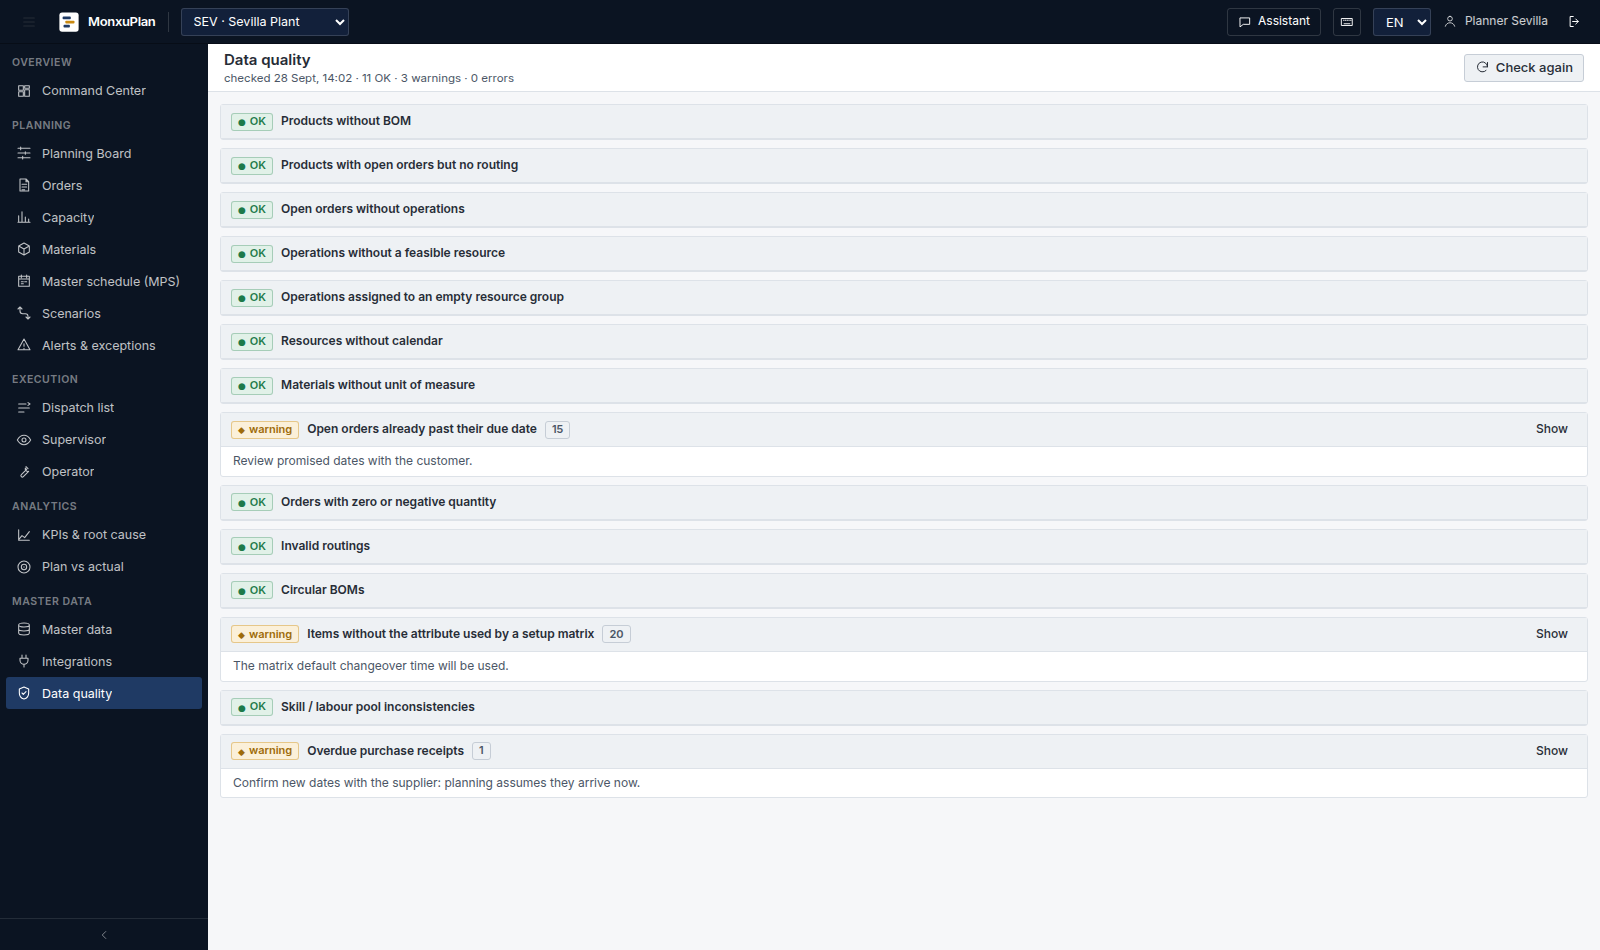
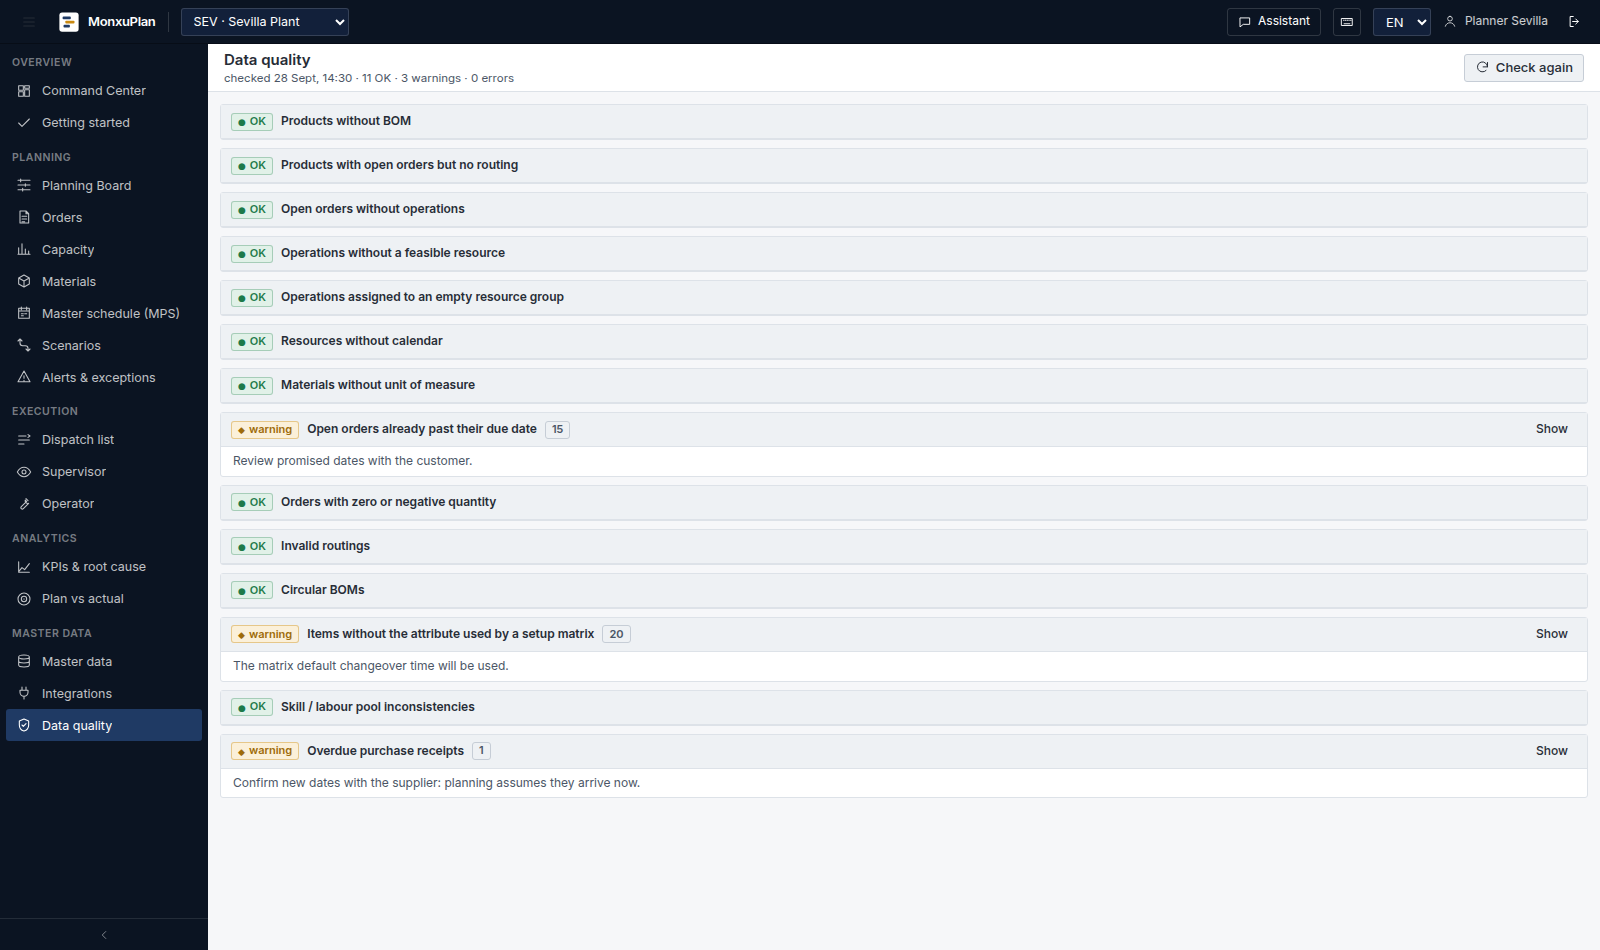
Getting started guide driven by real tenant data; README limits
- /getting-started: nine setup steps (calendars → resources → products/routings → orders → data
  quality → first plan → explanation → what-if → publish), each evaluated from the tenant's actual
  data, plus a tour of the deliberate situations in the demo plant
- Browser walkthrough covers the new page (0 errors)

Claude-Session: https://claude.ai/code/session_017AJHCVBpVxV3WxoY9y9hAz

Changed region(s): [[0.0, 0.1221, 0.125, 0.7937]]

diff --git a/frontend/src/app/(app)/getting-started/page.tsx b/frontend/src/app/(app)/getting-started/page.tsx
@@ -1,0 +1,86 @@
+"use client";
+import Link from "next/link";
+import { Badge, Loading, PageHeader, Panel } from "@/components/ui";
+import { useApi } from "@/lib/hooks";
+import { useScenarioSelection } from "@/lib/plan";
+import { useSession } from "@/lib/session";
+
+type Step = { key: string; title: string; done: boolean | null; detail: string; href: string; action: string };
+
+/** Setup and demo guide. Every step is evaluated from the tenant's real data — nothing is simulated. */
+export default function GettingStarted() {
+  const { plant, can } = useSession();
+  const { list } = useScenarioSelection();
+  const q = { limit: 1, plant_id: plant?.id };
+  const cals = useApi<any>(plant ? "/master-data/calendars" : null, { limit: 1 });
+  const machines = useApi<any>(plant ? "/master-data/machines" : null, q);
+  const items = useApi<any>(plant ? "/master-data/products" : null, { limit: 1 });
+  const routings = useApi<any>(plant ? "/master-data/routings" : null, { limit: 1 });
+  const orders = useApi<any>(plant ? "/orders" : null, plant ? { plant_id: plant.id, limit: 1 } : undefined);
+  const dq = useApi<any>(plant ? "/data-quality" : null, plant ? { plant_id: plant.id } : undefined);
+  if (!plant) return <Loading />;
+  const live = list.find((s) => s.is_live);
+  const whatIfs = list.filter((s) => !s.is_live && s.head_plan_id);
+  const n = (x: any) => (x.data ? x.data.total : null);
+  const steps: Step[] = [
+    { key: "cal", title: "Calendars and shifts", done: n(cals) === null ? null : n(cals) > 0, detail: `${n(cals) ?? "…"} calendars`, href: "/master-data/calendars", action: "Define shifts, breaks and holidays (or import them)" },
+    { key: "res", title: "Machines and resources", done: n(machines) === null ? null : n(machines) > 0, detail: `${n(machines) ?? "…"} machines in ${plant.code}`, href: "/master-data/machines", action: "Create or import machines, lines, tools and labour pools" },
+    { key: "items", title: "Products, BOMs and routings", done: n(items) === null ? null : n(items) > 0 && n(routings) > 0, detail: `${n(items) ?? "…"} products · ${n(routings) ?? "…"} routings`, href: "/integrations", action: "Import items, BOMs and routings with the wizard" },
+    { key: "orders", title: "Orders, stock and receipts", done: n(orders) === null ? null : n(orders) > 0, detail: `${n(orders) ?? "…"} open production orders`, href: "/integrations", action: "Import production orders, inventory and purchase orders" },
+    { key: "dq", title: "Data quality", done: dq.data ? dq.data.summary.errors === 0 : null, detail: dq.data ? `${dq.data.summary.errors} blocking errors · ${dq.data.summary.warnings} warnings` : "…", href: "/admin/data-quality", action: "Fix blocking errors before planning" },
+    { key: "plan", title: "First optimised plan", done: live ? !!live.head_plan_id : null, detail: live?.head_plan ? `${live.head_plan.number} · OTIF ${live.head_plan.kpis?.otif ?? "—"} %` : "no plan yet", href: "/planning", action: "Open the Planning Board and press Optimize" },
+    { key: "why", title: "Understand the plan", done: null, detail: "Select any bar → Why here? / Constraint explorer / Order chain", href: "/planning", action: "Check why a late order is late and what the bottleneck is" },
+    { key: "whatif", title: "Evaluate a what-if", done: whatIfs.length > 0, detail: `${whatIfs.length} planned scenarios besides the live plan`, href: "/planning/scenarios", action: "Try a night shift, a rush order or a supplier delay and compare" },
+    { key: "publish", title: "Publish to the shop floor", done: plant.published_plan_id ? true : live ? false : null, detail: plant.published_plan_id ? "a plan is published" : "nothing published yet", href: "/planning", action: "Publish, then open the Dispatch list and Operator screen" },
+  ];
+  const done = steps.filter((s) => s.done).length;
+  return (
+    <div className="flex flex-col h-full min-h-0">
+      <PageHeader title="Getting started" subtitle={`${plant.name} · ${done} of ${steps.length} steps done — each step is checked against your real data`} />
+      <div className="flex-1 overflow-auto mx-scroll p-4 max-w-4xl space-y-3">
+        <Panel title="From empty plant to published plan">
+          <ol>
+            {steps.map((s, i) => (
+              <li key={s.key} className="flex items-start gap-3 px-3 py-2.5 border-b border-gray-100">
+                <span className={`w-6 h-6 rounded-full flex items-center justify-center text-[12px] font-semibold shrink-0 ${s.done ? "bg-green-600 text-white" : "bg-gray-100 text-slate-600 border border-gray-300"}`} aria-hidden="true">
+                  {s.done ? "✓" : i + 1}
+                </span>
+                <div className="flex-1 min-w-0">
+                  <div className="font-semibold flex items-center gap-2">
+                    {s.title} {s.done === true ? <Badge tone="ok">done</Badge> : s.done === false ? <Badge tone="warn">to do</Badge> : null}
+                  </div>
+                  <div className="text-[12px] text-slate-600">{s.detail}</div>
+                  <div className="text-[12.5px]">{s.action}</div>
+                </div>
+                <Link className="mx-btn mx-btn-sm shrink-0" href={s.href}>
+                  Open
+                </Link>
+              </li>
+            ))}
+          </ol>
+        </Panel>
+        <Panel title="Demo tour (Monxu Manufacturing, Sevilla)">
+          <div className="p-3 text-[12.5px] space-y-1.5">
+            <p>The demo plant contains deliberate situations to explore:</p>
+            <ul className="list-disc pl-5 space-y-1">
+              <li>
+                <b>BRG-6205</b> bearing shortage — orders that cannot be scheduled and why (<Link className="text-blue-500 hover:underline" href="/planning/materials">Materials</Link>).
+              </li>
+              <li>
+                <b>CNC-04</b> maintenance today 14:00–18:00 and <b>CNC-03</b> ballscrew replacement next week (hatched on the <Link className="text-blue-500 hover:underline" href="/planning">Planning Board</Link>).
+              </li>
+              <li>
+                <b>PAINT-01</b> colour changeovers light → dark (setup matrix) and detached setups while material arrives.
+              </li>
+              <li>Two prepared what-ifs: a CNC night shift and buying a fifth machining centre (<Link className="text-blue-500 hover:underline" href="/planning/scenarios">Scenarios</Link>) — plan them and compare with the live plan.</li>
+              <li>
+                Ask the assistant (<kbd className="mx-kbd">Ctrl</kbd>+<kbd className="mx-kbd">J</kbd>): <i>why is WO-10042 late?</i>
+              </li>
+            </ul>
+            {can("admin:config") && <p className="text-slate-600">Administrators can reset the demo data from the API (`POST /api/v1/demo/reset`, disabled in production).</p>}
+          </div>
+        </Panel>
+      </div>
+    </div>
+  );
+}

diff --git a/frontend/src/components/shell/AppShell.tsx b/frontend/src/components/shell/AppShell.tsx
@@ -13,7 +13,7 @@ type NavItem = { href: string; key: string; icon: string; perm?: string };
 type NavGroup = { key: string; items: NavItem[] };
 
 const NAV: NavGroup[] = [
-  { key: "nav.overview", items: [{ href: "/dashboard", key: "nav.commandCenter", icon: "dashboard" }] },
+  { key: "nav.overview", items: [{ href: "/dashboard", key: "nav.commandCenter", icon: "dashboard" }, { href: "/getting-started", key: "nav.gettingStarted", icon: "check" }] },
   {
     key: "nav.planning",
     items: [

diff --git a/frontend/src/lib/i18n/es.ts b/frontend/src/lib/i18n/es.ts
@@ -2,6 +2,7 @@ import type { Dict } from "./en";
 
 const es: Dict = {
   "nav.overview": "Resumen",
+  "nav.gettingStarted": "Primeros pasos",
   "nav.commandCenter": "Centro de control",
   "nav.planning": "Planificación",
   "nav.board": "Tablero de planificación",

diff --git a/frontend/src/lib/i18n/en.ts b/frontend/src/lib/i18n/en.ts
@@ -1,6 +1,7 @@
 const en = {
   // navigation
   "nav.overview": "Overview",
+  "nav.gettingStarted": "Getting started",
   "nav.commandCenter": "Command Center",
   "nav.planning": "Planning",
   "nav.board": "Planning Board",

diff --git a/tests/e2e/ui_walkthrough.py b/tests/e2e/ui_walkthrough.py
@@ -64,6 +64,7 @@ with sync_playwright() as p:
         page.screenshot(path=f"{OUT}/04-why-here.png")
     for i, (path, name) in enumerate([
         ("/dashboard", "05-command-center"),
+        ("/getting-started", "05b-getting-started"),
         ("/planning/orders", "06-orders"),
         ("/planning/capacity", "07-capacity"),
         ("/planning/materials", "08-materials"),

diff --git a/README.md b/README.md
@@ -72,5 +72,5 @@ Full stack with PostgreSQL, Redis, separate workers: `cd deploy && cp .env.examp
 
 Implemented and tested end to end as described above. Not included yet (shown as *Coming soon* where
 visible): native ERP/MES connectors (SAP, Oracle, Dynamics, Odoo, Sage, Infor — use the REST API or
-file import), GraphQL, operation splitting across resources at run time, and full French, German and
+file import), GraphQL, operation splitting across resources at run time, imperial display units (metric only), and full French, German and
 Portuguese translations (navigation is translated; other text falls back to English).
